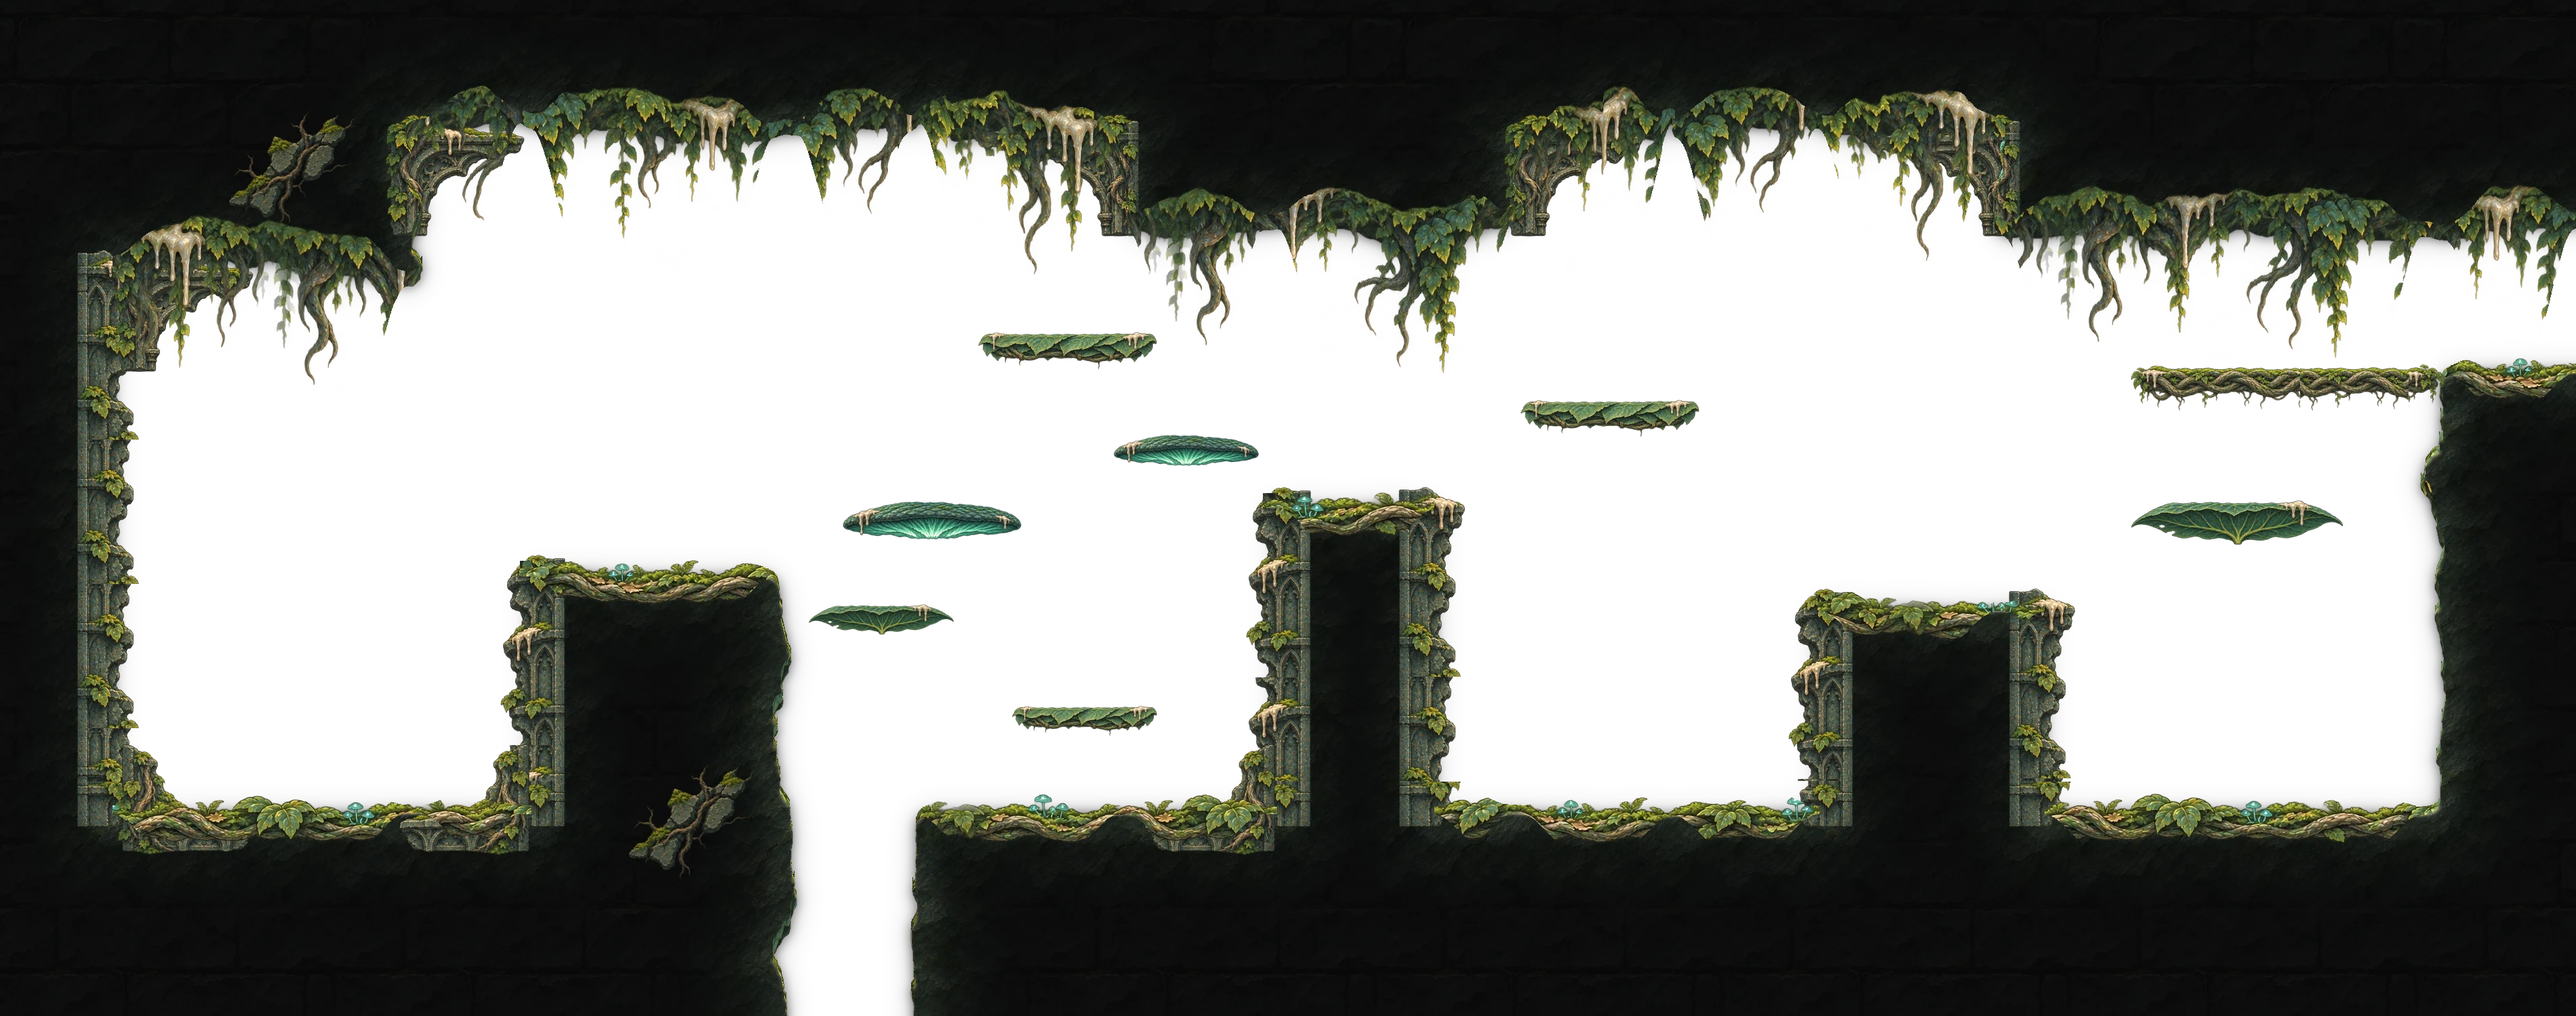
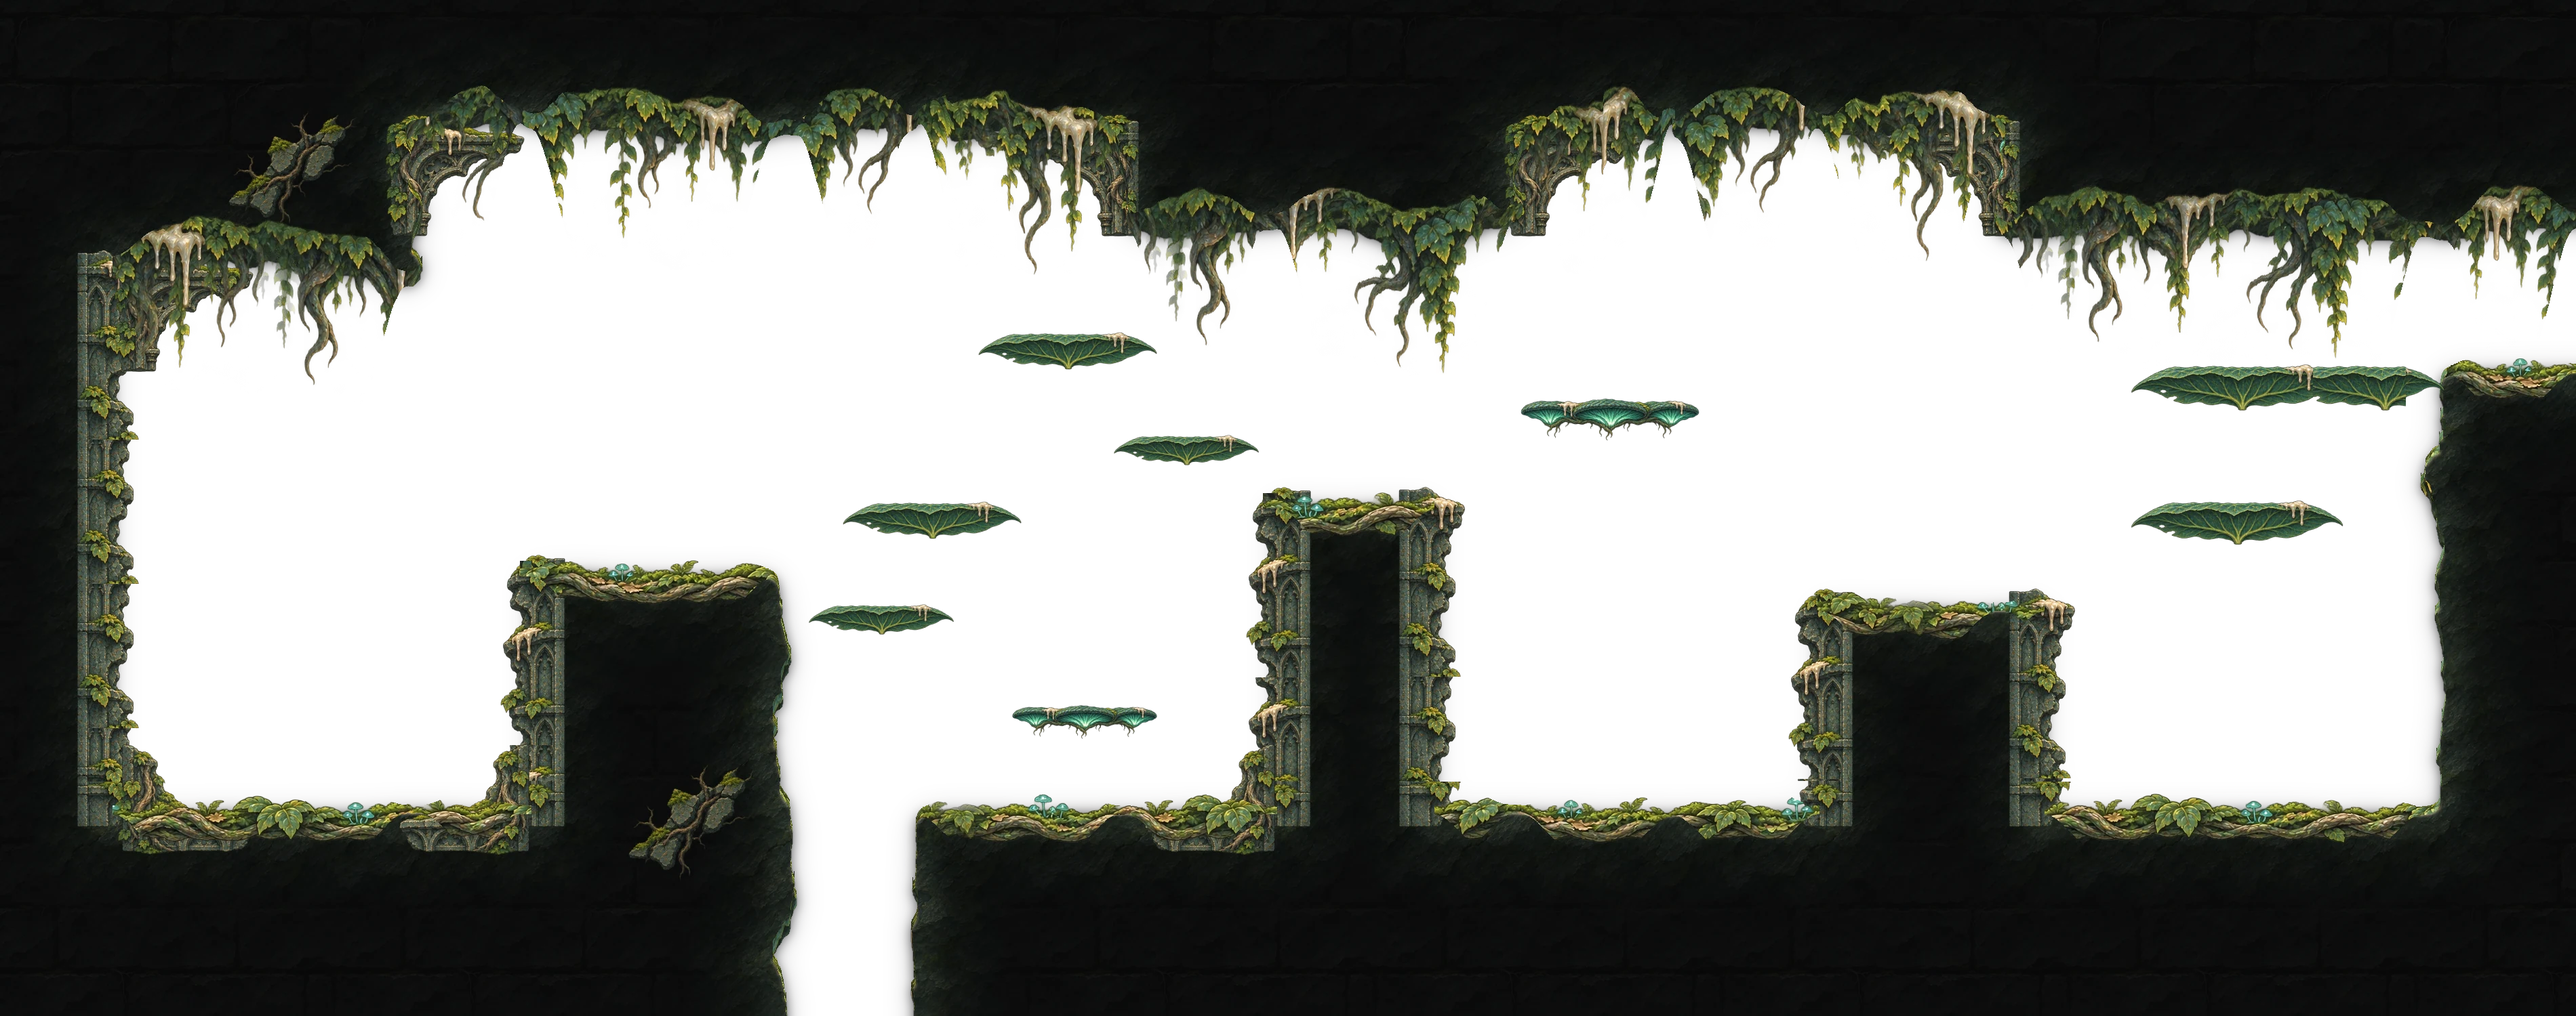
One main platform style per room with occasional accents; boss seals as wax-sealed stone slabs; shadow veils as soft continuous columns; water/lava with one continuous wave surface and soft open ends; boss title card moved up
Claude-Session: https://claude.ai/code/session_015akDnrqh7YCK1oXJVb4Tb2

diff --git a/last-wick/js/render.js b/last-wick/js/render.js
@@ -172,34 +172,38 @@ G.Render = (function () {
     // dynamic overrides (gates/seals) drawn by objects
   }
   function drawWater(room, t) {
-    const x0 = Math.floor(cam.x / TILE), y0 = Math.floor(cam.y / TILE);
+    const x0 = Math.floor(cam.x / TILE), y0 = Math.floor(cam.y / TILE), W2 = window.WORLD.rooms[room.id].world === 'sea';
+    const wave = (wx, k) => Math.sin(t * 1.7 + wx * 0.013) * 3 + Math.sin(t * 2.6 - wx * 0.031) * 1.6 * k;
     for (let ty = y0; ty <= y0 + VH / TILE + 1; ty++) for (let tx = x0; tx <= x0 + VW / TILE + 1; tx++) {
       const c = room.tile(tx, ty); if (c !== '~' && c !== 'w' && c !== 'x') continue;
-      const top = room.tile(tx, ty - 1) !== c;
-      const X = tx * TILE - cam.x, Y = ty * TILE - cam.y;
-      if (c === 'x') { // shadow gate: swirling void wall
-        ctx.save(); const ph = t * 2 + tx * 1.3 + ty * 0.7;
-        const g = ctx.createLinearGradient(X, 0, X + TILE, 0); g.addColorStop(0, 'rgba(20,8,35,0.2)'); g.addColorStop(0.5, 'rgba(10,4,20,0.95)'); g.addColorStop(1, 'rgba(20,8,35,0.2)');
-        ctx.fillStyle = g; ctx.fillRect(X, Y, TILE, TILE + 1);
-        for (let k = 0; k < 3; k++) { ctx.fillStyle = `rgba(150,90,255,${0.25 + 0.2 * Math.sin(ph + k * 2)})`; ctx.beginPath(); ctx.arc(X + TILE / 2 + Math.sin(ph + k) * 14, Y + ((t * 40 + k * 17 + ty * 13) % TILE), 3 + k, 0, 7); ctx.fill(); }
-        ctx.restore(); G.FX.glow(ctx, X + TILE / 2, Y + TILE / 2, 50, [150, 90, 255], 0.15); continue;
-      }
-      const W2 = window.WORLD.rooms[room.id].world === 'sea';
-      if (c === '~' && W2) { // burning ember-sea
-        ctx.fillStyle = top ? 'rgba(60,12,4,0.95)' : 'rgba(30,6,2,0.98)'; ctx.fillRect(X, Y + (top ? 10 : 0), TILE + 1, TILE + 1 - (top ? 10 : 0));
-        if (top) { const w = Math.sin(t * 1.6 + tx * 0.7) * 3; ctx.fillStyle = 'rgba(255,150,60,0.8)'; ctx.fillRect(X, Y + 8 + w, TILE + 1, 3);
-          G.FX.glow(ctx, X + TILE / 2, Y + 14, 60, [255, 110, 40], 0.22); if (Math.random() < 0.02) G.FX.spawn({ x: tx * TILE + rand(0, TILE), y: ty * TILE + 8, vx: rand(-20, 20), vy: rand(-140, -60), life: 1.2, size: 2, kind: 'ember', c: [255, 150, 60], add: true }); }
+      const top = room.tile(tx, ty - 1) !== c, X = tx * TILE - cam.x, Y = ty * TILE - cam.y;
+      if (c === 'x') {   // shadow veil: one soft column of drifting darkness (edges fade, no tile blocks)
+        const L = room.tile(tx - 1, ty) === 'x', R = room.tile(tx + 1, ty) === 'x', U = room.tile(tx, ty - 1) === 'x', D = room.tile(tx, ty + 1) === 'x';
+        const g = ctx.createLinearGradient(X, 0, X + TILE, 0);
+        g.addColorStop(0, `rgba(12,5,22,${L ? 0.9 : 0})`); g.addColorStop(0.5, 'rgba(12,5,22,0.9)'); g.addColorStop(1, `rgba(12,5,22,${R ? 0.9 : 0})`);
+        ctx.save(); if (!U || !D) { ctx.globalAlpha = 0.75; } ctx.fillStyle = g; ctx.fillRect(X, Y - (U ? 0 : 10), TILE + 1, TILE + 1 + (U ? 0 : 10) + (D ? 0 : 10)); ctx.restore();
+        for (let k = 0; k < 2; k++) { const wy = ty * TILE + ((t * 30 + k * 25 + tx * 7) % TILE), wx = tx * TILE + TILE / 2 + Math.sin(t * 0.9 + wy * 0.02 + k * 3) * 16;
+          G.FX.glow(ctx, wx - cam.x, wy - cam.y, 16, [160, 100, 255], 0.16); }
         continue;
       }
-      if (c === '~') {
-        ctx.fillStyle = top ? 'rgba(4,8,22,0.92)' : 'rgba(2,4,12,0.97)'; ctx.fillRect(X, Y + (top ? 10 : 0), TILE + 1, TILE + 1 - (top ? 10 : 0));
-        if (top) { const w = Math.sin(t * 2 + tx * 0.8) * 2;
-          ctx.fillStyle = 'rgba(120,170,255,0.55)'; ctx.fillRect(X, Y + 9 + w, TILE + 1, 2);
-          G.FX.glow(ctx, X + TILE / 2, Y + 12, 40, [80, 130, 255], 0.12); }
-      } else {
-        ctx.fillStyle = 'rgba(30,70,120,0.35)'; ctx.fillRect(X, Y + (top ? 14 : 0), TILE + 1, TILE + 1 - (top ? 14 : 0));
-        if (top) { ctx.fillStyle = 'rgba(160,210,255,0.4)'; ctx.fillRect(X, Y + 13 + Math.sin(t * 2.5 + tx) * 1.5, TILE + 1, 2); }
-      }
+      const lava = c === '~' && W2, water = c === '~' && !W2;
+      const deep = lava ? ['rgba(70,16,4,0.96)', 'rgba(25,5,2,0.99)'] : water ? ['rgba(8,16,38,0.9)', 'rgba(2,4,12,0.97)'] : ['rgba(40,80,130,0.32)', 'rgba(30,70,120,0.38)'];
+      const gg = ctx.createLinearGradient(0, Y, 0, Y + TILE); gg.addColorStop(0, top ? deep[0] : deep[1]); gg.addColorStop(1, deep[1]); ctx.fillStyle = gg;
+      // a pool that ends in open air (not against rock) fades out sideways instead of stopping in a straight cut
+      const openL = room.tile(tx - 1, ty) === '.', openR = room.tile(tx + 1, ty) === '.';
+      if (openL || openR) { ctx.save(); const fg = ctx.createLinearGradient(X, 0, X + TILE, 0); fg.addColorStop(0, openL ? 'rgba(0,0,0,0)' : '#000'); fg.addColorStop(0.6, '#000'); fg.addColorStop(1, openR ? 'rgba(0,0,0,0)' : '#000');
+        ctx.globalAlpha = 0.55; }
+      if (!top) { ctx.fillRect(X, Y, TILE + 1, TILE + 1); if (openL || openR) ctx.restore(); continue; }
+      // the surface follows one continuous wave across the whole pool
+      ctx.beginPath(); ctx.moveTo(X, Y + TILE + 1);
+      for (let i = 0; i <= 5; i++) { const sx = X + i * TILE / 5; ctx.lineTo(sx, Y + 10 + wave(tx * TILE + i * TILE / 5, 1)); }
+      ctx.lineTo(X + TILE + 1, Y + TILE + 1); ctx.closePath(); ctx.fill();
+      ctx.strokeStyle = lava ? 'rgba(255,170,80,0.85)' : water ? 'rgba(150,195,255,0.55)' : 'rgba(170,215,255,0.4)'; ctx.lineWidth = lava ? 2.5 : 1.6;
+      ctx.beginPath(); for (let i = 0; i <= 5; i++) { const sx = X + i * TILE / 5, sy = Y + 10 + wave(tx * TILE + i * TILE / 5, 1); i ? ctx.lineTo(sx, sy) : ctx.moveTo(sx, sy); } ctx.stroke();
+      if (lava) { G.FX.glow(ctx, X + TILE / 2, Y + 14, 70, [255, 110, 40], 0.2);
+        if (Math.random() < 0.02) G.FX.spawn({ x: tx * TILE + rand(0, TILE), y: ty * TILE + 8, vx: rand(-20, 20), vy: rand(-140, -60), life: 1.2, size: 2, kind: 'ember', c: [255, 150, 60], add: true }); }
+      else if (water) G.FX.glow(ctx, X + TILE / 2, Y + 12, 40, [80, 130, 255], 0.1);
+      if (openL || openR) ctx.restore();
     }
   }
   function drawLighting(room, extraDark) {
@@ -344,11 +348,24 @@ G.Render = (function () {
   }
   function drawSeal(c, o, t) {
     if (!o.closed) return;
-    const x = o.tx * TILE, y = o.ty * TILE;
-    c.save(); const g = c.createLinearGradient(x, y, x, y + TILE);
-    g.addColorStop(0, 'rgba(200,170,255,0.85)'); g.addColorStop(1, 'rgba(90,60,160,0.85)'); c.fillStyle = g;
-    for (let i = 0; i < o.w * 2; i++) { const sx = x + i * TILE / 2; c.beginPath(); c.moveTo(sx, y + TILE); c.lineTo(sx + TILE / 4, y - 10 + Math.sin(i * 1.7) * 6); c.lineTo(sx + TILE / 2, y + TILE); c.fill(); }
-    c.restore(); G.FX.light(x + o.w * TILE / 2, y + 25, 200, [190, 150, 255], 0.8);
+    const x = o.tx * TILE - 6, y = o.ty * TILE, w = o.w * TILE + 12, h = TILE, area = G.Main.room && G.Main.room.area;
+    const rf = area && G.Assets.get('rockfill_' + area);
+    c.save(); c.beginPath(); c.roundRect(x, y + 2, w, h - 2, 10);
+    if (rf) { const pt = c.createPattern(rf, 'repeat'); c.fillStyle = pt; c.fill(); c.fillStyle = 'rgba(255,240,220,0.12)'; c.fill(); }
+    else { c.fillStyle = '#2a2228'; c.fill(); }
+    c.strokeStyle = 'rgba(0,0,0,0.6)'; c.lineWidth = 3; c.stroke();
+    // wax poured over the top edge, drips hanging down the face
+    c.fillStyle = '#e9cfa2'; c.beginPath(); c.moveTo(x, y + 8);
+    for (let i = 0; i <= o.w * 4; i++) { const sx = x + i * w / (o.w * 4); c.lineTo(sx, y + 2 + Math.sin(i * 2.3) * 2); }
+    c.lineTo(x + w, y + 12); c.lineTo(x, y + 12); c.closePath(); c.fill();
+    for (let i = 0; i < o.w * 2; i++) { const dx = x + 14 + i * (w - 28) / Math.max(1, o.w * 2 - 1), dl = 8 + ((i * 37) % 17);
+      c.beginPath(); c.ellipse(dx, y + 10 + dl / 2, 3.2, dl / 2 + 2, 0, 0, 7); c.fill(); }
+    // glowing wax seal in the middle
+    const cx = x + w / 2, cy = y + h / 2 + 4, pulse = 0.75 + 0.25 * Math.sin(t * 3);
+    G.FX.glow(c, cx, cy, 46, [255, 170, 90], 0.45 * pulse);
+    c.fillStyle = '#b5482a'; c.beginPath(); c.arc(cx, cy, 13, 0, 7); c.fill(); c.strokeStyle = '#7a2a18'; c.lineWidth = 2; c.stroke();
+    c.fillStyle = `rgba(255,210,150,${0.85 * pulse})`; c.beginPath(); c.moveTo(cx, cy - 8); c.quadraticCurveTo(cx + 6, cy, cx, cy + 7); c.quadraticCurveTo(cx - 6, cy, cx, cy - 8); c.fill();
+    c.restore(); G.FX.light(cx, cy, 160, [255, 170, 90], 0.6);
   }
   function drawPortal(c, o, t) {
     const x = o.x, y = o.y - 100, open = o.open;

diff --git a/last-wick/js/ui.js b/last-wick/js/ui.js
@@ -131,7 +131,7 @@ G.UI = (function () {
       ornament(c, VW / 2, VH * 0.22 + 30, 260, a * 0.85);
       text(c, card.l2, VW / 2, VH * 0.22 + 54, { size: 13, en: true, a: a * 0.65, spacing: 8, c: '#e2cfae' });
     } else {
-      const y = VH * 0.74;
+      const y = VH * 0.26;   // up top: never over the hero or the boss's health bar
       text(c, card.l2, VW / 2, y - 40, { size: 15, en: true, a: a * 0.75, spacing: 9, c: '#e2cfae' });
       text(c, card.l1, VW / 2, y + 4, { size: 58, w: 600, title: true, a, blur: 26, c: '#f6e4cc' });
       ornament(c, VW / 2, y + 44, 380, a);

diff --git a/last-wick/tools/terrain2d.py b/last-wick/tools/terrain2d.py
@@ -224,6 +224,7 @@ def paint(r):
         st, an = opts[seed % len(opts)]; drape(img, st, tops, an, seed + 1)
     else: drape(img, K['trim_top'], tops, K['anchor_top'], seed + 1)
     # platforms
+    pidx = [0]
     for yy in range(g.shape[0]):
         xx = 0
         while xx < g.shape[1]:
@@ -232,7 +233,9 @@ def paint(r):
                 while xx < g.shape[1] and g[yy, xx] == '=': xx += 1
                 wpx = (xx - x0) * T + 16
                 if K['plats']:   # one of six painted platforms, picked per platform; long ones are 3-sliced
-                    p = K['plats'][(x0 * 7 + yy * 13 + seed) % len(K['plats'])]
+                    # one main platform look per room, with now and then an accent piece (about one in five)
+                    n = len(K['plats']); main = seed % n; acc = (main + 1 + (seed // 7) % (n - 1)) % n if n > 1 else main
+                    pidx[0] += 1; p = K['plats'][acc if (pidx[0] % 5 == 3 and n > 1) else main]
                     ph = int(round(p.shape[0] * wpx / p.shape[1]))
                     if ph > 86 or ph < 40:
                         ph = 72; pi = cv2.resize(p, (max(8, int(p.shape[1] * ph / p.shape[0])), ph), interpolation=cv2.INTER_AREA); sl = three_slice(pi, wpx) if pi.shape[1] < wpx else cv2.resize(pi, (wpx, ph), interpolation=cv2.INTER_AREA)
